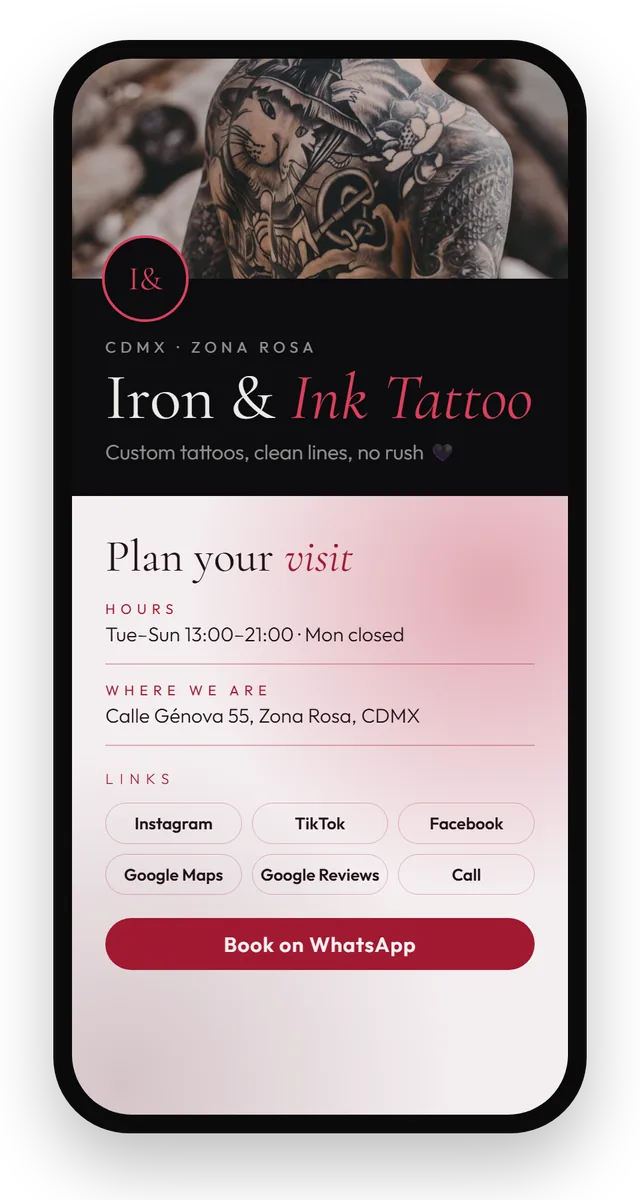
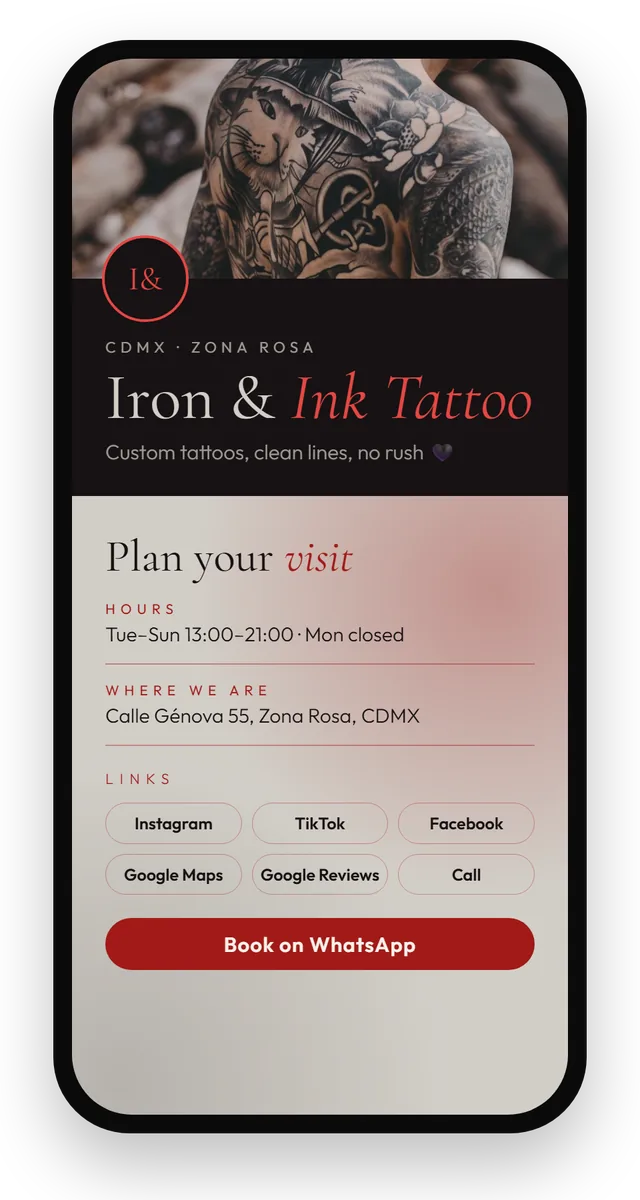
Galeria de estilos ES/EN: 14 estilos (Black & White y Sunset Glow) y Midnight Ink repintado
Tarjetas nuevas de Black & White (demo Mono Studio, Creativos) y Sunset Glow
(demo Sunset Surf School, Fitness y actividades), cada una con sus 4 vistas del
celular (A, C, D, E). Midnight Ink: mockups con la paleta nueva, colores de la
tarjeta (#171213 / #a11a17) y descripcion. Textos "12 estilos" pasan a 14.
24 WebP 640x1200.

diff --git a/public/es/index.html b/public/es/index.html
@@ -689,7 +689,7 @@ footer .note { margin-top: 40px; padding-top: 22px; border-top: 1px solid rgba(2
         <div class="bubble bubble--q b1">🙋♀ «Hola, ¿me pasas la lista de precios?»</div>
         <div class="bubble bubble--q b2">«¿Hasta qué hora abren hoy?»</div>
         <div class="bubble b3"><i></i><i></i><i></i></div>
-        <div class="bubble b4">✨ 12 estilos para elegir</div>
+        <div class="bubble b4">✨ 14 estilos para elegir</div>
         <div class="phone-wrap phone-wrap--mock">
           <div class="phone phone--mock">
             <div class="screen">
@@ -788,8 +788,8 @@ footer .note { margin-top: 40px; padding-top: 22px; border-top: 1px solid rgba(2
   <div class="wrap">
     <span class="blob blob--pink" aria-hidden="true" style="width: 260px; height: 230px; top: -50px; right: -110px;"></span>
     <span class="kicker" data-reveal>Estilos visuales</span>
-    <h2 data-reveal>12 estilos para elegir</h2>
-    <p class="lead" data-reveal>Eliges uno de estos 12 estilos y tu tarjeta se ve profesional desde el primer día. Filtra por el tipo de negocio que tienes, o abre cualquier demo: son tarjetas reales publicadas, con datos ficticios.</p>
+    <h2 data-reveal>14 estilos para elegir</h2>
+    <p class="lead" data-reveal>Eliges uno de estos 14 estilos y tu tarjeta se ve profesional desde el primer día. Filtra por el tipo de negocio que tienes, o abre cualquier demo: son tarjetas reales publicadas, con datos ficticios.</p>
     <div class="filter-pills" data-reveal role="group" aria-label="Filtrar estilos por categoría">
       <button class="pill is-active" data-filter="all" type="button">Todos</button>
       <button class="pill" data-filter="beauty" type="button">Belleza y Wellness</button>
@@ -928,7 +928,7 @@ footer .note { margin-top: 40px; padding-top: 22px; border-top: 1px solid rgba(2
         <p class="ideal"><strong>Ideal para:</strong> restaurantes, cafés, negocios de comida.</p>
         <span class="demo-link">Ver demo: Café Terra <span class="arr" aria-hidden="true">→</span></span>
       </a>
-      <a class="card style-card" data-category="creative" href="../demos/iron-ink-tattoo/" style="--th-b:#0c0c0e; --th-a:#c0203a;">
+      <a class="card style-card" data-category="creative" href="../demos/iron-ink-tattoo/" style="--th-b:#171213; --th-a:#a11a17;">
         <div class="thumb thumb--mock">
           <img class="mslide is-on" src="../assets/mockups/es/midnight-ink-a.webp" alt="Tarjeta real de la demo Iron &amp; Ink Tattoo, estilo Midnight Ink" width="640" height="1200" loading="lazy">
           <img class="mslide" src="../assets/mockups/es/midnight-ink-c.webp" alt="" width="640" height="1200" loading="lazy" aria-hidden="true">
@@ -937,7 +937,7 @@ footer .note { margin-top: 40px; padding-top: 22px; border-top: 1px solid rgba(2
           <span class="mdots" aria-hidden="true"><i class="is-on"></i><i></i><i></i><i></i></span>
         </div>
         <h3>Midnight Ink</h3>
-        <p>Negro profundo con acentos carmesí. Audaz y artístico.</p>
+        <p>Negro profundo, gris cálido y rojo intenso. Audaz y artístico.</p>
         <p class="ideal"><strong>Ideal para:</strong> estudios de tatuaje, grooming alternativo.</p>
         <span class="demo-link">Ver demo: Iron &amp; Ink Tattoo <span class="arr" aria-hidden="true">→</span></span>
       </a>
@@ -953,6 +953,32 @@ footer .note { margin-top: 40px; padding-top: 22px; border-top: 1px solid rgba(2
         <p>Azul marino y crema, minimalista y profesional.</p>
         <p class="ideal"><strong>Ideal para:</strong> coaches, consultores, servicios profesionales.</p>
         <span class="demo-link">Ver demo: Clarity Coaching Co. <span class="arr" aria-hidden="true">→</span></span>
+      </a>
+      <a class="card style-card" data-category="creative" href="../demos/mono-studio/" style="--th-b:#0a0a0a; --th-a:#f0f0f0;">
+        <div class="thumb thumb--mock">
+          <img class="mslide is-on" src="../assets/mockups/es/black-white-a.webp" alt="Tarjeta real de la demo Mono Studio, estilo Black &amp; White" width="640" height="1200" loading="lazy">
+          <img class="mslide" src="../assets/mockups/es/black-white-c.webp" alt="" width="640" height="1200" loading="lazy" aria-hidden="true">
+          <img class="mslide" src="../assets/mockups/es/black-white-d.webp" alt="" width="640" height="1200" loading="lazy" aria-hidden="true">
+          <img class="mslide" src="../assets/mockups/es/black-white-e.webp" alt="" width="640" height="1200" loading="lazy" aria-hidden="true">
+          <span class="mdots" aria-hidden="true"><i class="is-on"></i><i></i><i></i><i></i></span>
+        </div>
+        <h3>Black &amp; White</h3>
+        <p>Blanco y negro puros, sin color de acento. Minimalista y contundente.</p>
+        <p class="ideal"><strong>Ideal para:</strong> fotógrafos, estudios creativos, marcas minimalistas.</p>
+        <span class="demo-link">Ver demo: Mono Studio <span class="arr" aria-hidden="true">→</span></span>
+      </a>
+      <a class="card style-card" data-category="fitness" href="../demos/sunset-surf/" style="--th-b:#951a21; --th-a:#f2b52b;">
+        <div class="thumb thumb--mock">
+          <img class="mslide is-on" src="../assets/mockups/es/sunset-glow-a.webp" alt="Tarjeta real de la demo Sunset Surf School, estilo Sunset Glow" width="640" height="1200" loading="lazy">
+          <img class="mslide" src="../assets/mockups/es/sunset-glow-c.webp" alt="" width="640" height="1200" loading="lazy" aria-hidden="true">
+          <img class="mslide" src="../assets/mockups/es/sunset-glow-d.webp" alt="" width="640" height="1200" loading="lazy" aria-hidden="true">
+          <img class="mslide" src="../assets/mockups/es/sunset-glow-e.webp" alt="" width="640" height="1200" loading="lazy" aria-hidden="true">
+          <span class="mdots" aria-hidden="true"><i class="is-on"></i><i></i><i></i><i></i></span>
+        </div>
+        <h3>Sunset Glow</h3>
+        <p>Rojo atardecer con dorado y naranja. Cálido y vibrante.</p>
+        <p class="ideal"><strong>Ideal para:</strong> escuelas de surf, tours, cafeterías con energía.</p>
+        <span class="demo-link">Ver demo: Sunset Surf School <span class="arr" aria-hidden="true">→</span></span>
       </a>
     </div>
   </div>
@@ -1048,7 +1074,7 @@ footer .note { margin-top: 40px; padding-top: 22px; border-top: 1px solid rgba(2
       </details>
       <details>
         <summary>¿Puedo elegir colores?</summary>
-        <div class="fa">Eliges entre 12 estilos visuales, diseñados para verse profesionales en cualquier negocio. No hay selección libre de colores: así garantizamos que tu tarjeta siempre se vea bien.</div>
+        <div class="fa">Eliges entre 14 estilos visuales, diseñados para verse profesionales en cualquier negocio. No hay selección libre de colores: así garantizamos que tu tarjeta siempre se vea bien.</div>
       </details>
       <details>
         <summary>¿Sirve para barberías?</summary>

diff --git a/public/index.html b/public/index.html
@@ -696,7 +696,7 @@ footer .note { margin-top: 40px; padding-top: 22px; border-top: 1px solid rgba(2
         <div class="bubble bubble--q b1">🙋 “Hi! Do you have a price list?”</div>
         <div class="bubble bubble--q b2">“How late are you open today?”</div>
         <div class="bubble b3"><i></i><i></i><i></i></div>
-        <div class="bubble b4">✨ 12 styles — pick yours</div>
+        <div class="bubble b4">✨ 14 styles — pick yours</div>
         <div class="phone-wrap phone-wrap--mock">
           <div class="phone phone--mock">
             <div class="screen">
@@ -795,8 +795,8 @@ footer .note { margin-top: 40px; padding-top: 22px; border-top: 1px solid rgba(2
   <div class="wrap">
     <span class="blob blob--pink" aria-hidden="true" style="width: 260px; height: 230px; top: -50px; right: -110px;"></span>
     <span class="kicker" data-reveal>Visual styles</span>
-    <h2 data-reveal>12 styles to choose from</h2>
-    <p class="lead" data-reveal>Pick one of these 12 styles and your card looks polished from day one. Filter by the kind of business you run, or open any example — they're real published cards with fictional data.</p>
+    <h2 data-reveal>14 styles to choose from</h2>
+    <p class="lead" data-reveal>Pick one of these 14 styles and your card looks polished from day one. Filter by the kind of business you run, or open any example — they're real published cards with fictional data.</p>
     <div class="filter-pills" data-reveal role="group" aria-label="Filter styles by category">
       <button class="pill is-active" data-filter="all" type="button">All styles</button>
       <button class="pill" data-filter="beauty" type="button">Beauty &amp; Wellness</button>
@@ -935,7 +935,7 @@ footer .note { margin-top: 40px; padding-top: 22px; border-top: 1px solid rgba(2
         <p class="ideal"><strong>Great for:</strong> restaurants, cafés, food businesses.</p>
         <span class="demo-link">View example: Café Terra <span class="arr" aria-hidden="true">→</span></span>
       </a>
-      <a class="card style-card" data-category="creative" href="demos/iron-ink-tattoo/en/" style="--th-b:#0c0c0e; --th-a:#c0203a;">
+      <a class="card style-card" data-category="creative" href="demos/iron-ink-tattoo/en/" style="--th-b:#171213; --th-a:#a11a17;">
         <div class="thumb thumb--mock">
           <img class="mslide is-on" src="assets/mockups/en/midnight-ink-a.webp" alt="Real card from the Iron &amp; Ink Tattoo demo, Midnight Ink style" width="640" height="1200" loading="lazy">
           <img class="mslide" src="assets/mockups/en/midnight-ink-c.webp" alt="" width="640" height="1200" loading="lazy" aria-hidden="true">
@@ -944,7 +944,7 @@ footer .note { margin-top: 40px; padding-top: 22px; border-top: 1px solid rgba(2
           <span class="mdots" aria-hidden="true"><i class="is-on"></i><i></i><i></i><i></i></span>
         </div>
         <h3>Midnight Ink</h3>
-        <p>Deep black with crimson accents. Bold and artistic.</p>
+        <p>Deep black, warm grey and intense red. Bold and artistic.</p>
         <p class="ideal"><strong>Great for:</strong> tattoo studios, alternative grooming.</p>
         <span class="demo-link">View example: Iron &amp; Ink Tattoo <span class="arr" aria-hidden="true">→</span></span>
       </a>
@@ -960,6 +960,32 @@ footer .note { margin-top: 40px; padding-top: 22px; border-top: 1px solid rgba(2
         <p>Navy and cream, minimal and professional.</p>
         <p class="ideal"><strong>Great for:</strong> coaches, consultants, professional services.</p>
         <span class="demo-link">View example: Clarity Coaching Co. <span class="arr" aria-hidden="true">→</span></span>
+      </a>
+      <a class="card style-card" data-category="creative" href="demos/mono-studio/en/" style="--th-b:#0a0a0a; --th-a:#f0f0f0;">
+        <div class="thumb thumb--mock">
+          <img class="mslide is-on" src="assets/mockups/en/black-white-a.webp" alt="Real card from the Mono Studio demo, Black &amp; White style" width="640" height="1200" loading="lazy">
+          <img class="mslide" src="assets/mockups/en/black-white-c.webp" alt="" width="640" height="1200" loading="lazy" aria-hidden="true">
+          <img class="mslide" src="assets/mockups/en/black-white-d.webp" alt="" width="640" height="1200" loading="lazy" aria-hidden="true">
+          <img class="mslide" src="assets/mockups/en/black-white-e.webp" alt="" width="640" height="1200" loading="lazy" aria-hidden="true">
+          <span class="mdots" aria-hidden="true"><i class="is-on"></i><i></i><i></i><i></i></span>
+        </div>
+        <h3>Black &amp; White</h3>
+        <p>Pure black and white, no accent color. Minimal and bold.</p>
+        <p class="ideal"><strong>Great for:</strong> photographers, creative studios, minimalist brands.</p>
+        <span class="demo-link">View example: Mono Studio <span class="arr" aria-hidden="true">→</span></span>
+      </a>
+      <a class="card style-card" data-category="fitness" href="demos/sunset-surf/en/" style="--th-b:#951a21; --th-a:#f2b52b;">
+        <div class="thumb thumb--mock">
+          <img class="mslide is-on" src="assets/mockups/en/sunset-glow-a.webp" alt="Real card from the Sunset Surf School demo, Sunset Glow style" width="640" height="1200" loading="lazy">
+          <img class="mslide" src="assets/mockups/en/sunset-glow-c.webp" alt="" width="640" height="1200" loading="lazy" aria-hidden="true">
+          <img class="mslide" src="assets/mockups/en/sunset-glow-d.webp" alt="" width="640" height="1200" loading="lazy" aria-hidden="true">
+          <img class="mslide" src="assets/mockups/en/sunset-glow-e.webp" alt="" width="640" height="1200" loading="lazy" aria-hidden="true">
+          <span class="mdots" aria-hidden="true"><i class="is-on"></i><i></i><i></i><i></i></span>
+        </div>
+        <h3>Sunset Glow</h3>
+        <p>Sunset red with gold and orange. Warm and vibrant.</p>
+        <p class="ideal"><strong>Great for:</strong> surf schools, tours, lively cafés.</p>
+        <span class="demo-link">View example: Sunset Surf School <span class="arr" aria-hidden="true">→</span></span>
       </a>
     </div>
   </div>
@@ -1055,7 +1081,7 @@ footer .note { margin-top: 40px; padding-top: 22px; border-top: 1px solid rgba(2
       </details>
       <details>
         <summary>Can I pick my own colors?</summary>
-        <div class="fa">You choose from 12 curated visual styles designed to look professional for any business. There's no free-form color picking — that's how we guarantee your card always looks good.</div>
+        <div class="fa">You choose from 14 curated visual styles designed to look professional for any business. There's no free-form color picking — that's how we guarantee your card always looks good.</div>
       </details>
       <details>
         <summary>Does it work for barbershops?</summary>
